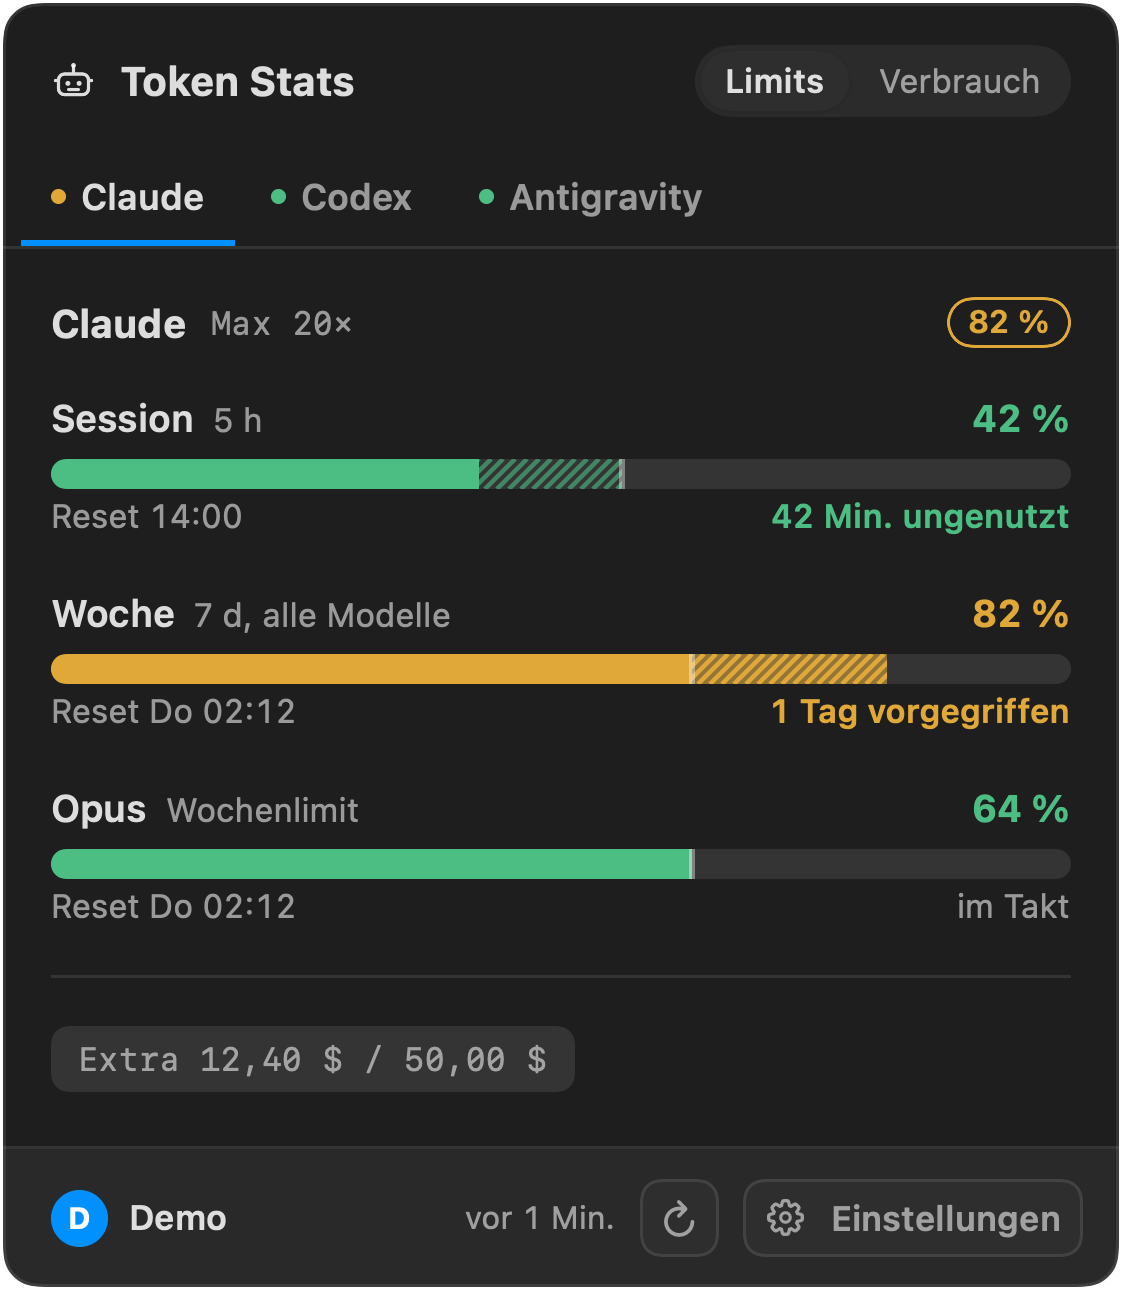
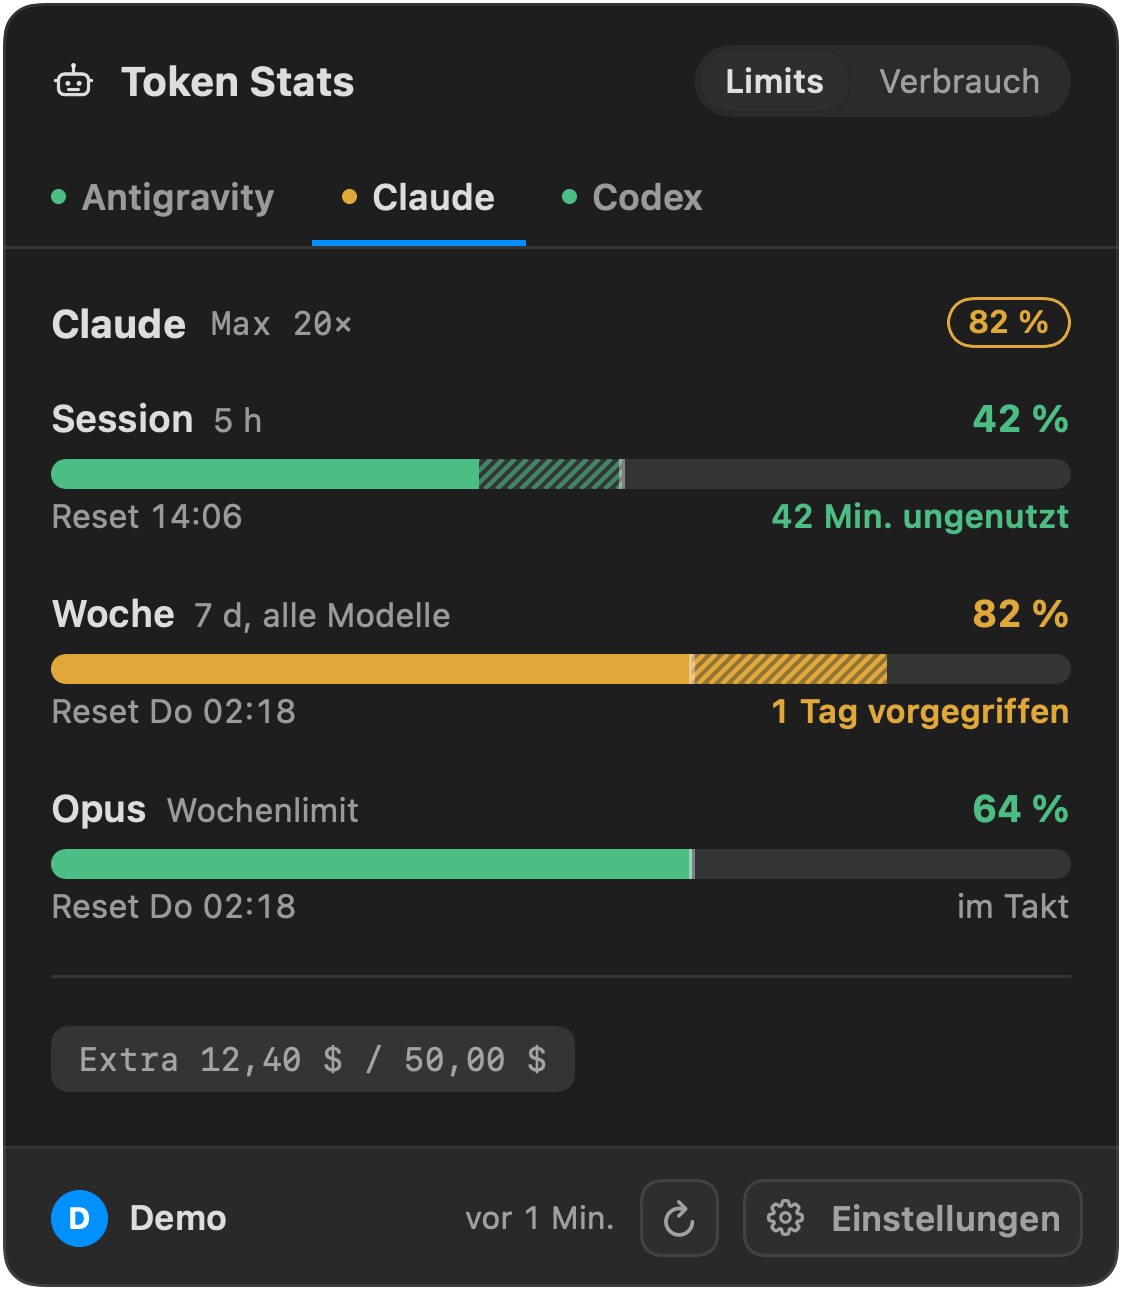
Tabs alphabetisch nach Anbietername sortieren
Die Sortierung nach Dringlichkeit ließ die Reihenfolge mit jedem Abruf
springen. Jetzt stehen die Tabs fest nach Namen; beim Öffnen ist weiterhin
der knappste Anbieter aktiv. README-Bilder neu gerendert.

Changed region(s): [[0.0312, 0.124, 0.6239, 0.2171], [0.2496, 0.6822, 0.2807, 0.7132], [0.2496, 0.5271, 0.2807, 0.5581]]

diff --git a/Sources/TokenStats/Model/UsageStore.swift b/Sources/TokenStats/Model/UsageStore.swift
@@ -43,13 +43,9 @@ final class UsageStore {
         providers.filter { $0.isInstalled() }
     }
 
-    /// Nach Dringlichkeit sortiert: knappster Anbieter zuerst (SPEC §3.2).
+    /// Alphabetisch nach Namen, damit die Tabs nicht springen (SPEC §3.2).
     var sortedProviders: [any UsageProvider] {
-        installedProviders.enumerated().sorted { lhs, rhs in
-            let l = states[lhs.element.id]?.snapshot?.tightestWindow?.percent ?? -1
-            let r = states[rhs.element.id]?.snapshot?.tightestWindow?.percent ?? -1
-            return l == r ? lhs.offset < rhs.offset : l > r
-        }.map(\.element)
+        installedProviders.sorted { $0.displayName.localizedStandardCompare($1.displayName) == .orderedAscending }
     }
 
     /// Wert für Menüleiste und Popover-Kopf – beide zeigen immer denselben.

diff --git a/Sources/TokenStats/UI/PopoverView.swift b/Sources/TokenStats/UI/PopoverView.swift
@@ -31,7 +31,9 @@ struct PopoverView: View {
 
     var body: some View {
         let providers = store.sortedProviders
-        let selected = providers.first { $0.id == selectedID } ?? providers.first
+        // Beim Öffnen ist der knappste Anbieter aktiv, die Tab-Reihenfolge bleibt fest.
+        let activeID = selectedID ?? store.tightest?.providerID
+        let selected = providers.first { $0.id == activeID } ?? providers.first
 
         VStack(spacing: 0) {
             header

diff --git a/SPEC.md b/SPEC.md
@@ -58,11 +58,13 @@ Das knappste Limit steht hier nicht mehr (Entscheidung 28.09.2026): Es ist schon
 Menüleiste sichtbar und in den Tab-Punkten; doppelt wirkte der Kopf überladen.
 
 ### 3.2 Tab-Leiste — ein Tab je Client
-`Claude · Codex · Gemini · Copilot · +2`
+`Antigravity · Claude · Codex · Copilot · +2`
 
 - Jeder Tab trägt einen 5-pt-Statuspunkt in der Zustandsfarbe. Damit ist der kritische
   Anbieter ohne Klick sichtbar.
-- **Sortierung nach Dringlichkeit:** knappster Client links, beim Öffnen aktiv.
+- **Alphabetisch nach Namen**, beim Öffnen ist der knappste Client aktiv. Ursprünglich
+  stand der knappste links – dadurch sprang die Reihenfolge mit jedem Abruf und wirkte
+  willkürlich. Dringlichkeit zeigen Statuspunkt und aktiver Tab.
 - Passen nicht alle Tabs in die Breite, sammelt `+n` den Rest in einem Menü.
 - Tabs statt langer Liste, weil die Popover-Höhe sonst mit jedem Anbieter wächst.
 

diff --git a/CHANGELOG.md b/CHANGELOG.md
@@ -10,6 +10,8 @@ das GitHub-Release und für den Update-Dialog in der App.
   Antigravity-CLI `agy`, einmal angemeldet. Weil Google-Tokens nur eine Stunde leben,
   zeigt Token Stats danach den letzten Stand – das Kontingent ändert sich ohnehin nur,
   wenn Antigravity läuft.
+- **Tabs alphabetisch:** Die Anbieter stehen in fester Reihenfolge nach Namen statt
+  nach Dringlichkeit. Beim Öffnen ist weiterhin der knappste Anbieter ausgewählt.
 - **Reset ohne Abfrage:** Ist der Reset-Zeitpunkt eines Limits erreicht, steht es sofort
   auf 0 %, auch wenn gerade keine Abfrage möglich ist.
 - **Claude-Anmeldung:** Nach „Anmeldung abgelaufen“ erkennt Token Stats ein erneuertes
